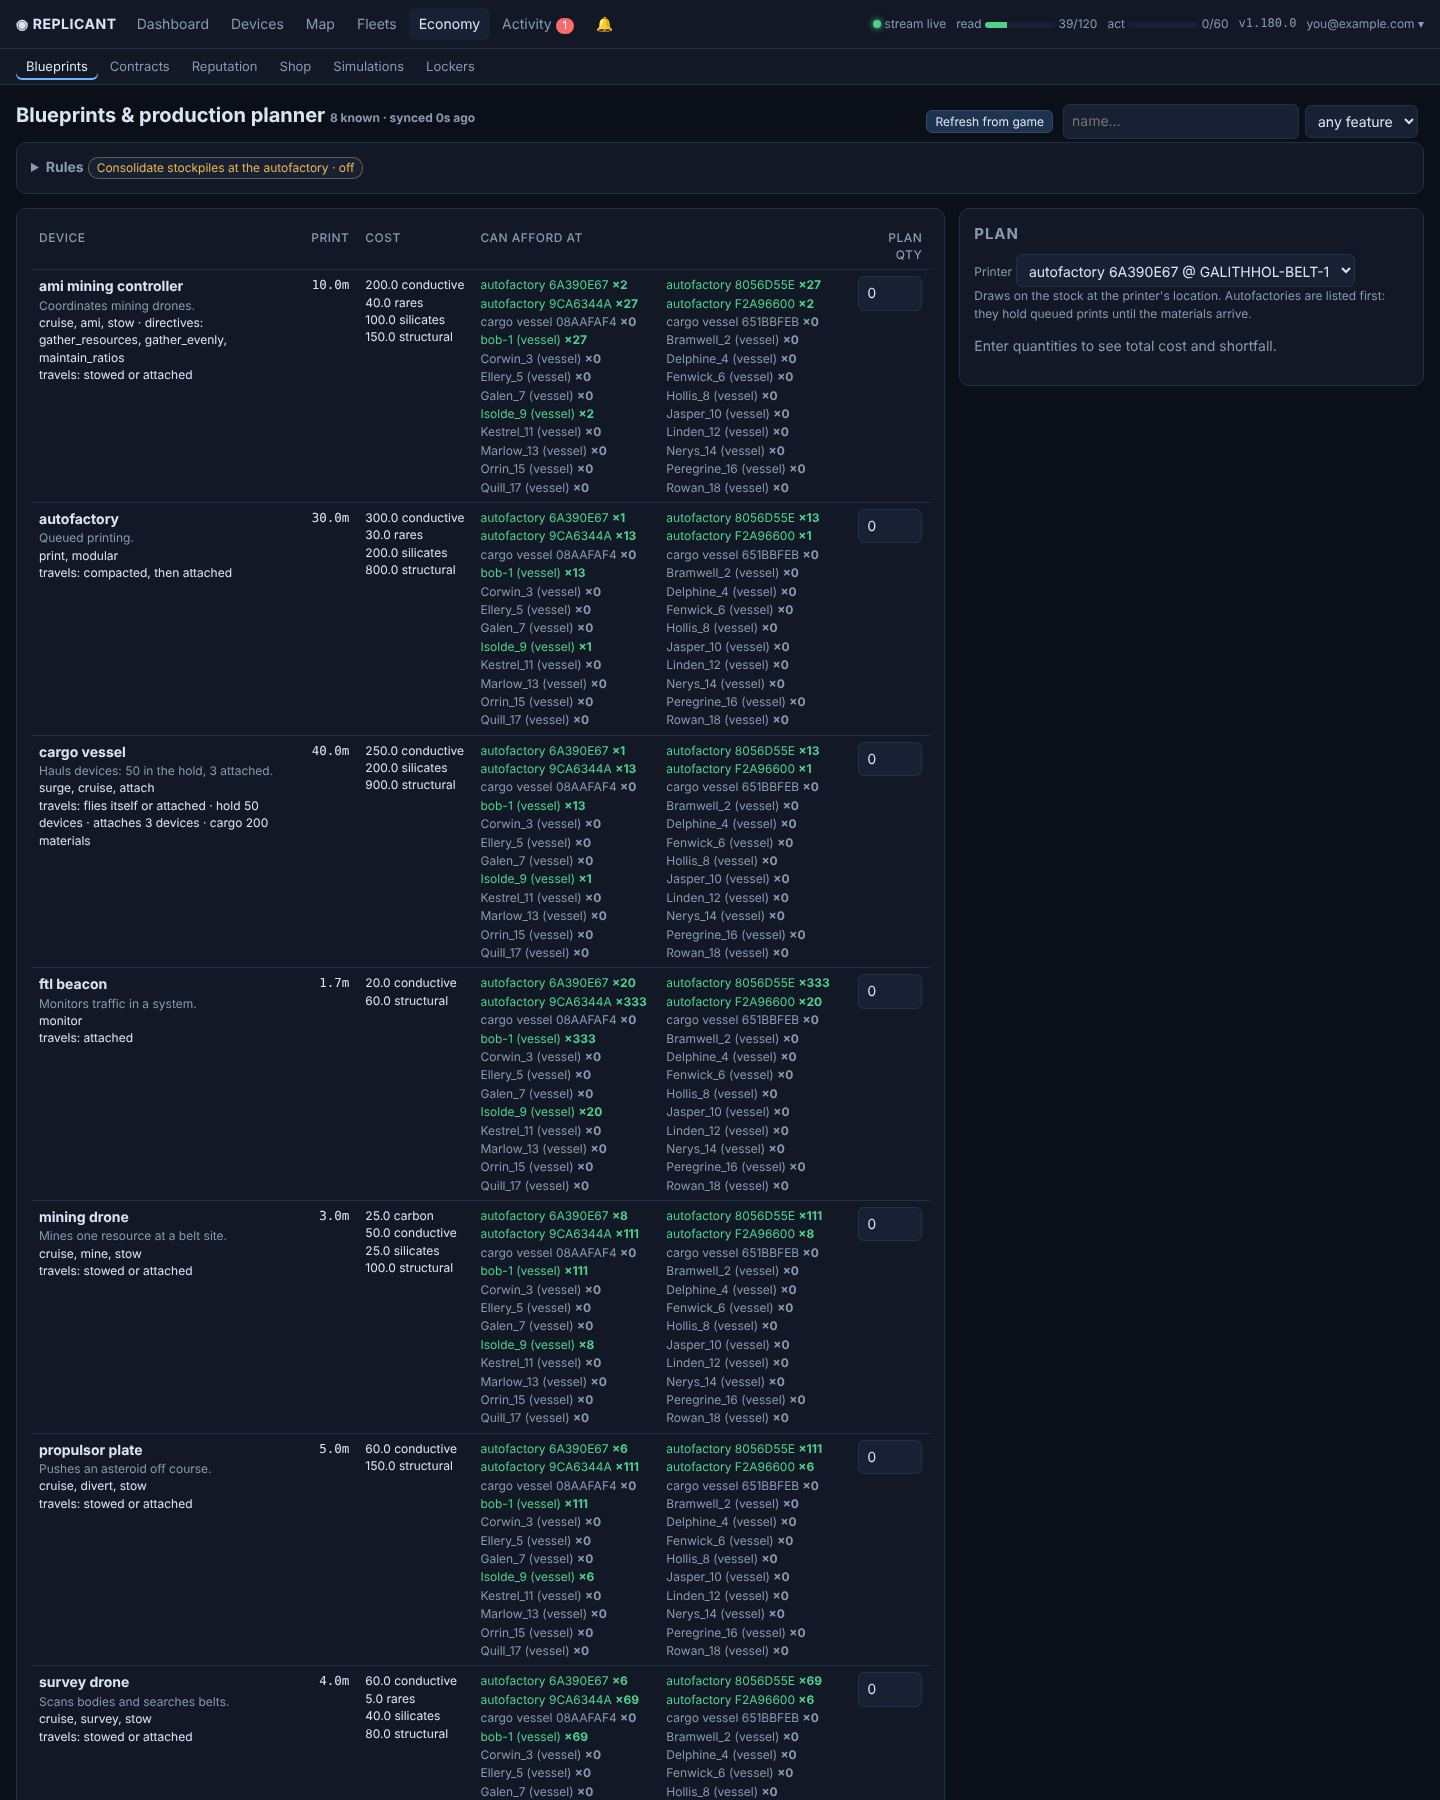
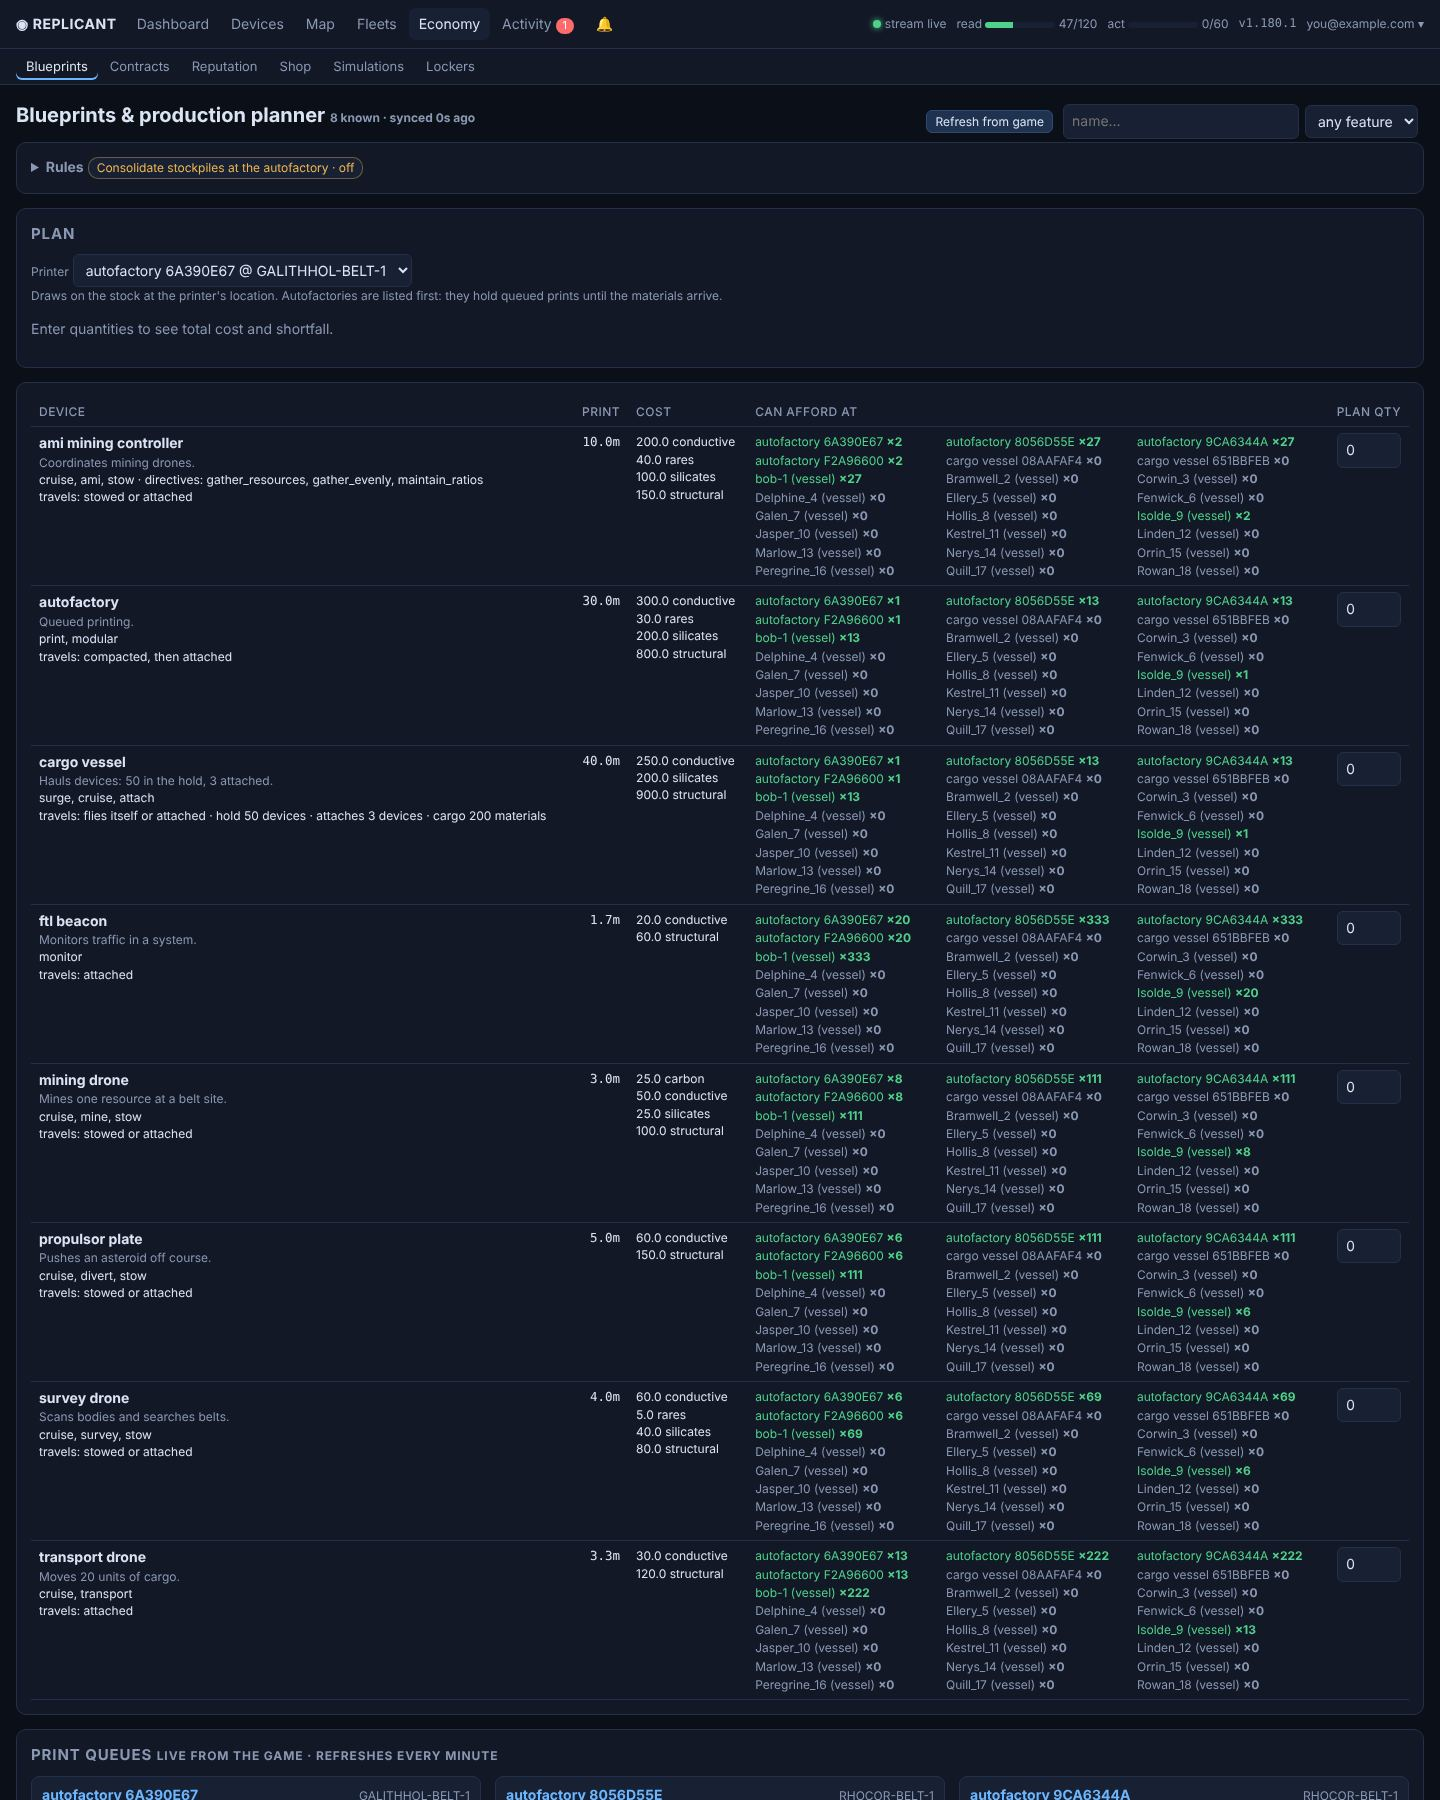
1.180.3: fleet templates and blueprint list span the full page width
Claude-Session: https://claude.ai/code/session_01QkRgNdiSgaWDkDuW8ndNLw

diff --git a/app/rsweb/templates/blueprints.html b/app/rsweb/templates/blueprints.html
@@ -12,8 +12,15 @@
 {% if not blueprints %}<p class="muted">Blueprints sync every 5 minutes and when something may have unlocked one; none cached yet.</p>{% endif %}
 
 <form hx-post="/blueprints/plan" hx-target="#plan" hx-trigger="input delay:300ms from:input[type=number], change from:select">
-<div class="grid g2 g2-wide">
-  <div class="card">
+<div class="card" style="margin-bottom:14px">
+  <h2>Plan</h2>
+  <label>Printer</label>
+  <select name="printer">{% for p in printers %}<option value="{{ p.kind }}:{{ p.code }}">{{ p.name }} @ {{ p.location }}</option>{% endfor %}</select>
+  <div class="muted small">Draws on the stock at the printer's location. Autofactories are listed first: they hold queued prints until the materials arrive.</div>
+  <div id="plan"><p class="muted">Enter quantities to see total cost and shortfall.</p></div>
+  <div id="plan-result"></div>
+</div>
+<div class="card" style="overflow-x:auto">
     <table>
       <tr><th>Device</th><th class="num">Print</th><th>Cost</th><th class="afford-col">Can afford at</th><th class="num">Plan qty</th></tr>
       {% for b in blueprints %}
@@ -33,17 +40,6 @@
       </tr>
       {% endfor %}
     </table>
-  </div>
-  <div>
-    <div class="card" style="position:sticky;top:64px">
-      <h2>Plan</h2>
-      <label>Printer</label>
-      <select name="printer">{% for p in printers %}<option value="{{ p.kind }}:{{ p.code }}">{{ p.name }} @ {{ p.location }}</option>{% endfor %}</select>
-      <div class="muted small">Draws on the stock at the printer's location. Autofactories are listed first: they hold queued prints until the materials arrive.</div>
-      <div id="plan"><p class="muted">Enter quantities to see total cost and shortfall.</p></div>
-      <div id="plan-result"></div>
-    </div>
-  </div>
 </div>
 </form>
 {% set factories = printers | selectattr('autofactory') | list %}

diff --git a/app/rsweb/templates/fleets.html b/app/rsweb/templates/fleets.html
@@ -28,11 +28,10 @@
 
 <p class="small">Fleet status and templates. Each fleet's members, loadout and missions, the next loadout pass, the tags check and
   what's spare or on the way: <a href="/fleets/details"><b>Fleet details</b></a>.</p>
-<div class="card" id="fleets-overview" style="margin-bottom:14px" hx-get="/fleets/overview" hx-trigger="load" hx-swap="innerHTML">
+<div class="card" id="fleets-overview" style="margin-bottom:14px;overflow-x:auto" hx-get="/fleets/overview" hx-trigger="load" hx-swap="innerHTML">
   <h2>Overview</h2><p class="muted small">Loading fleet status…</p></div>
 
-<div class="grid g2">
-  <div class="card" id="templates">
+<div class="card" id="templates" style="margin-bottom:14px">
     <h2>Templates <span class="muted small">(phases)</span></h2>
     <p class="muted small">A template (phase) is a loadout fleets can share, e.g. a stage of a system's development: how many of each device
       a fleet on it should have. Editing a template updates every fleet that follows it. A fleet's members keep their <code>fleet:</code> tag
@@ -62,8 +61,9 @@
         <button>Save templates</button>
       </div>
     </form>
-  </div>
+</div>
 
+<div class="grid">
   <div class="card">
     <h2>Settings</h2>
     <form hx-post="/loadouts/settings" hx-target="#lo-saved">

diff --git a/app/rsweb/version.py b/app/rsweb/version.py
@@ -16,11 +16,13 @@ import secrets
 from datetime import datetime, timezone
 from pathlib import Path
 
-VERSION = "1.180.2"
+VERSION = "1.180.3"
 
 # newest first: (version, date, summary). Entries before 1.4.0 were reconstructed when versioning was added,
 # so their dates are approximate and they group several drops each.
 CHANGES: list[tuple[str, str, str]] = [
+    ("1.180.3", "2026-10-20", "Fleets: the Templates grid spans the full page width (Settings below it). Blueprints: the Plan "
+     "card sits above a full-width blueprint list instead of beside it, so the list no longer ends up squeezed under it on a phone."),
     ("1.180.2", "2026-10-20", "Logistics no longer rescues a device out of command range when its at: tag names the spot "
      "where it is: it was stocked there on purpose (compute cores at MIRFAKA-OBJ-1 sent a heaven vessel to fetch them)."),
     ("1.180.1", "2026-10-20", "Prints the app queues to fill a locker's price, a simulation's cores or missing components are "
